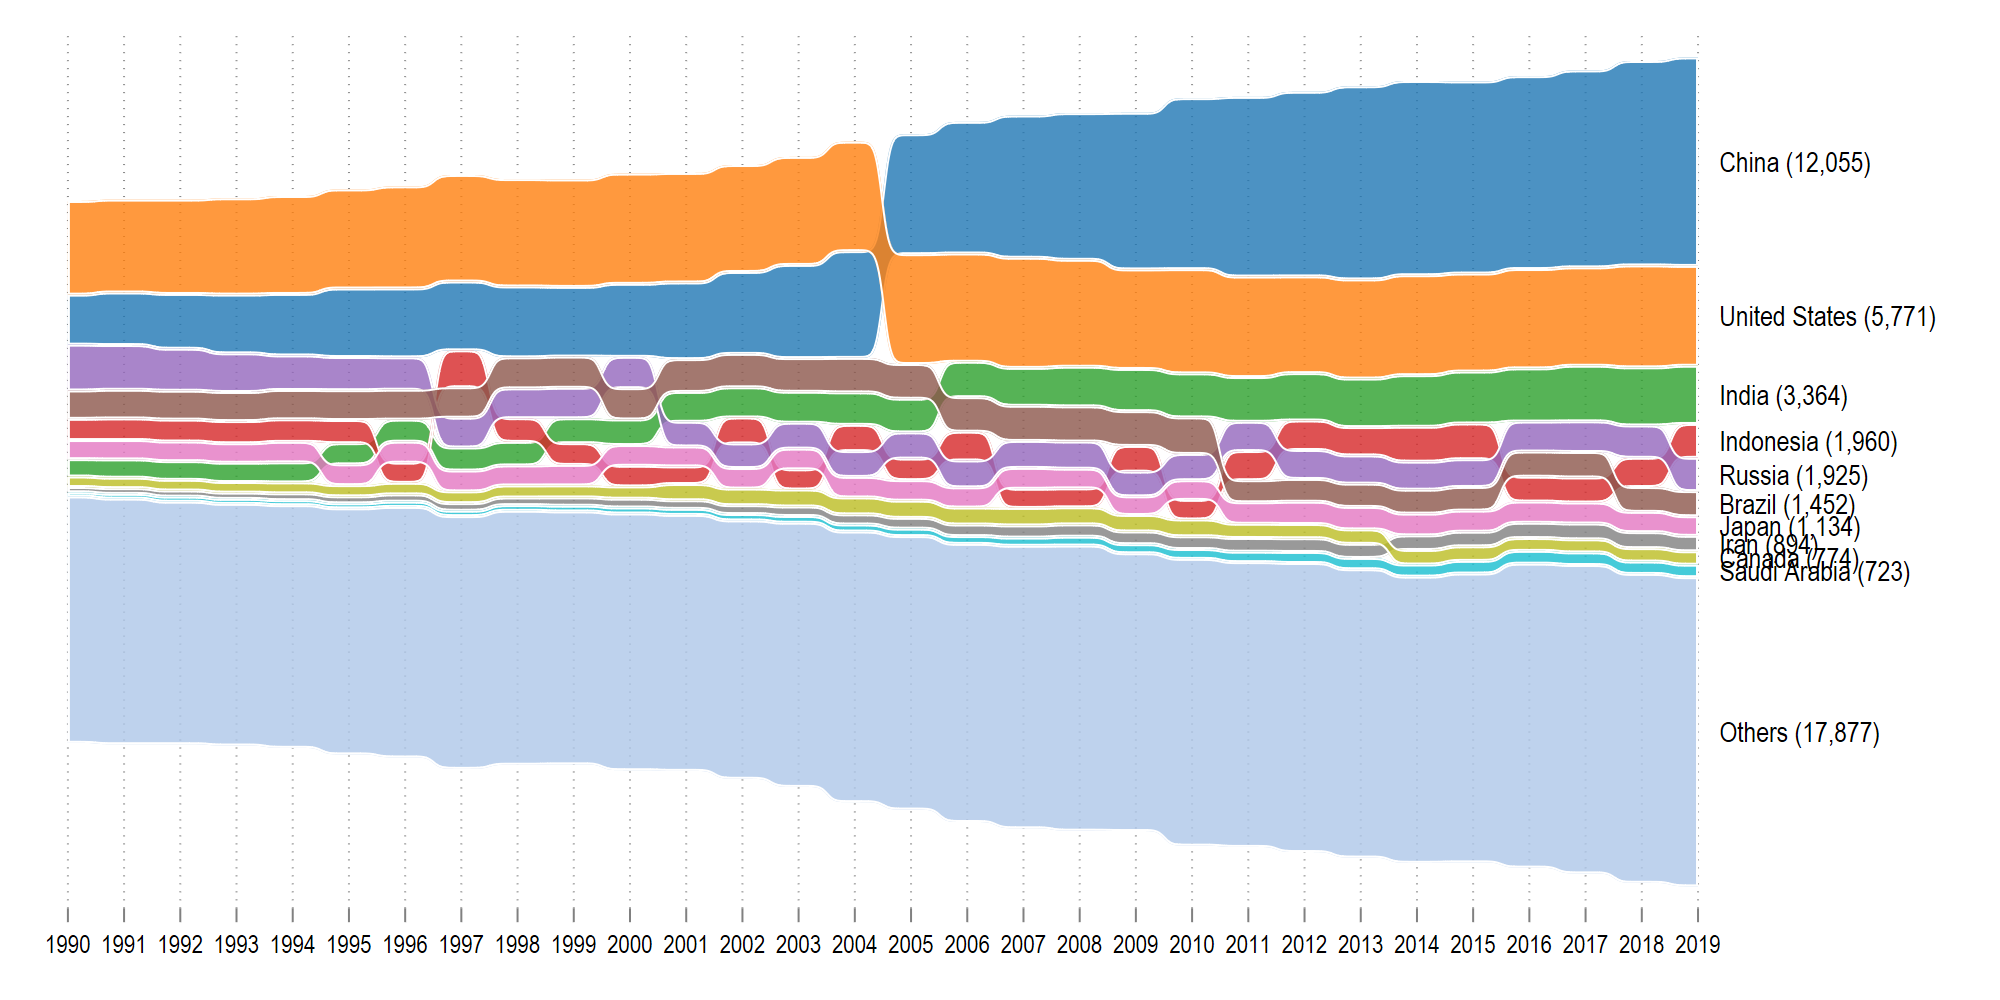
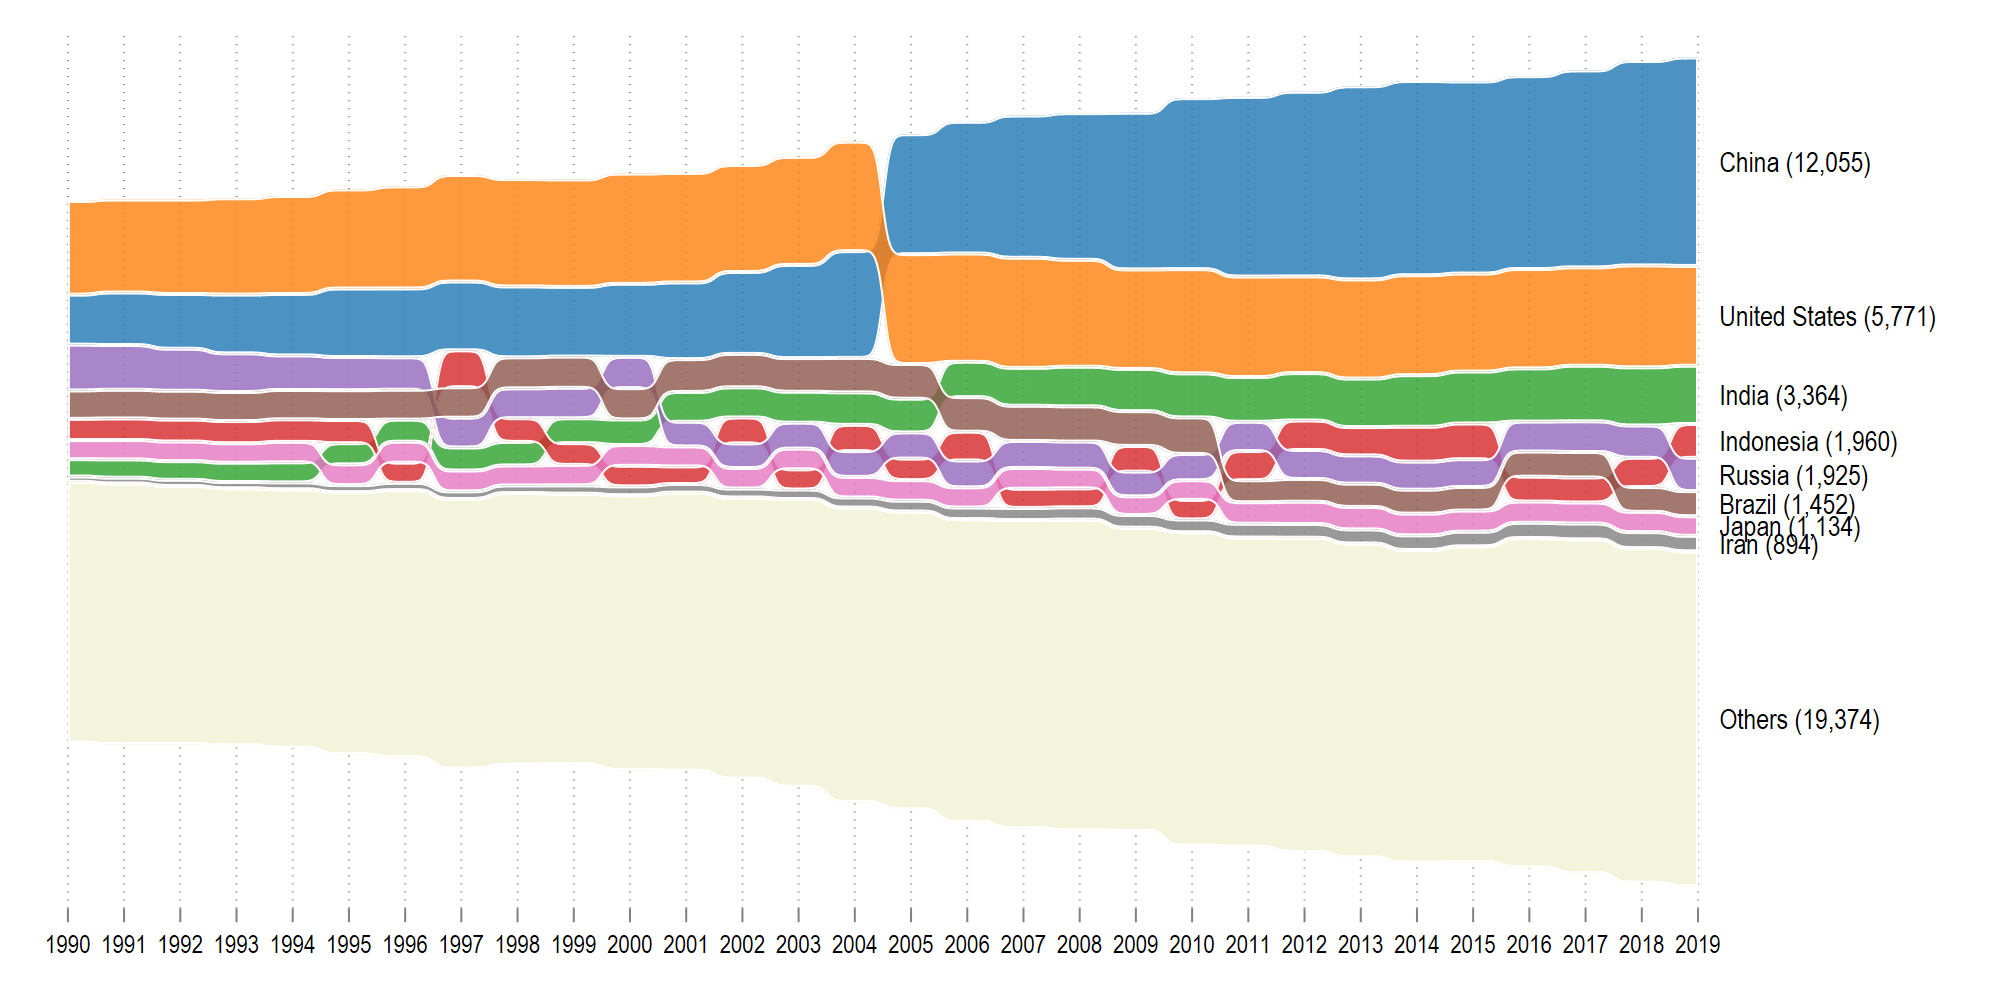
v1.2

Changed region(s): [[0.031, 0.465, 0.961, 0.899]]

diff --git a/README.md b/README.md
@@ -9,7 +9,7 @@
 
 ---
 
-# bumparea v1.11
+# bumparea v1.2
 (06 Jun 2023)
 
 ## Installation
@@ -22,7 +22,7 @@ SSC (**v1.1**):
 ssc install bumparea, replace
 ```
 
-GitHub (**v1.11**):
+GitHub (**v1.2**):
 
 ```
 net install bumparea, from("https://raw.githubusercontent.com/asjadnaqvi/stata-bumparea/main/installation/") replace
@@ -57,15 +57,14 @@ graph set window fontface "Arial Narrow"
 
 ## Syntax
 
-The syntax for **v1.11** is as follows:
+The syntax for **v1.2** is as follows:
 
-```
-
+```stata
 bumparea y x [if] [in], by(varname) 
-                [ top(num) dropother smooth(num) palette(str) labcond(str) offset(num)
-                  alpha(num) lcolor(str) lwidth(str) percent format(fmt) recenter(mid|top|bot)
+                [ top(num) dropother smooth(num) palette(str) labcond(str) offset(num) alpha(num) 
+                  lcolor(str) lwidth(str) percent format(fmt) recenter(mid|top|bot) colorby(name) colorvar(var) colother(str)
                   xlabel(str) xtitle(str) ytitle(str) title(str) subtitle(str) note(str) 
-                  ysize(num) xsize(num) scheme(str) name(str) ]
+                  ysize(num) xsize(num) scheme(str) name(str) saving(str) ]
 ```
 
 See the help file `help bumparea` for details.
@@ -242,6 +241,43 @@ bumparea total_ghg year, by(country) smooth(8) palette(CET L08) labs(2) ///
 <img src="/figures/bumparea17.png" height="400">
 
 
+### v1.2 options 
+
+```
+bumparea total_ghg year, by(country) top(10) ///
+			xsize(2) ysize(1) 		
+```
+
+<img src="/figures/bumparea18.png" height="400">
+
+```
+bumparea total_ghg year, by(country) top(10) colother(gs12) ///
+			xsize(2) ysize(1) 		
+```
+
+<img src="/figures/bumparea19.png" height="400">
+
+```
+bumparea total_ghg year, by(country) top(10) colorby(name) ///
+			xsize(2) ysize(1		
+```
+
+<img src="/figures/bumparea20.png" height="400">
+
+```
+cap drop cats
+gen cats = .
+replace cats = 1 if inlist(country, "Indonesia", "Japan")
+replace cats = 2 if inlist(country, "United States", "Canada")
+replace cats = 3 if inlist(country, "Iran", "Saudi Arabia")
+replace cats = 4 if inlist(country, "China")
+			
+bumparea total_ghg year, by(country) top(10) colorvar(cats) ///
+			xsize(2) ysize(1) colo(white)			
+```
+
+<img src="/figures/bumparea21.png" height="400">
+
 
 ## Feedback
 
@@ -249,6 +285,13 @@ Please open an [issue](https://github.com/asjadnaqvi/stata-bumparea/issues) to r
 
 
 ## Change log
+
+**v1.2 (25 Jul 2023)**
+- Several new options added: `colorby(name)` to alpha sort the colors, `colorby(var)` to color using a custom `var`, `colother()` to define the color of the "Other" category.
+- A bug with labels fixed (found by Marc Kaulisch)
+- Better checks for `by()` variables.
+- `saving()` option added. 
+- Several small bug fixes and code optimizations.
 
 **v1.11 (06 Jun 2023)**
 - Minor bug fixes, checks, enhancements. 
